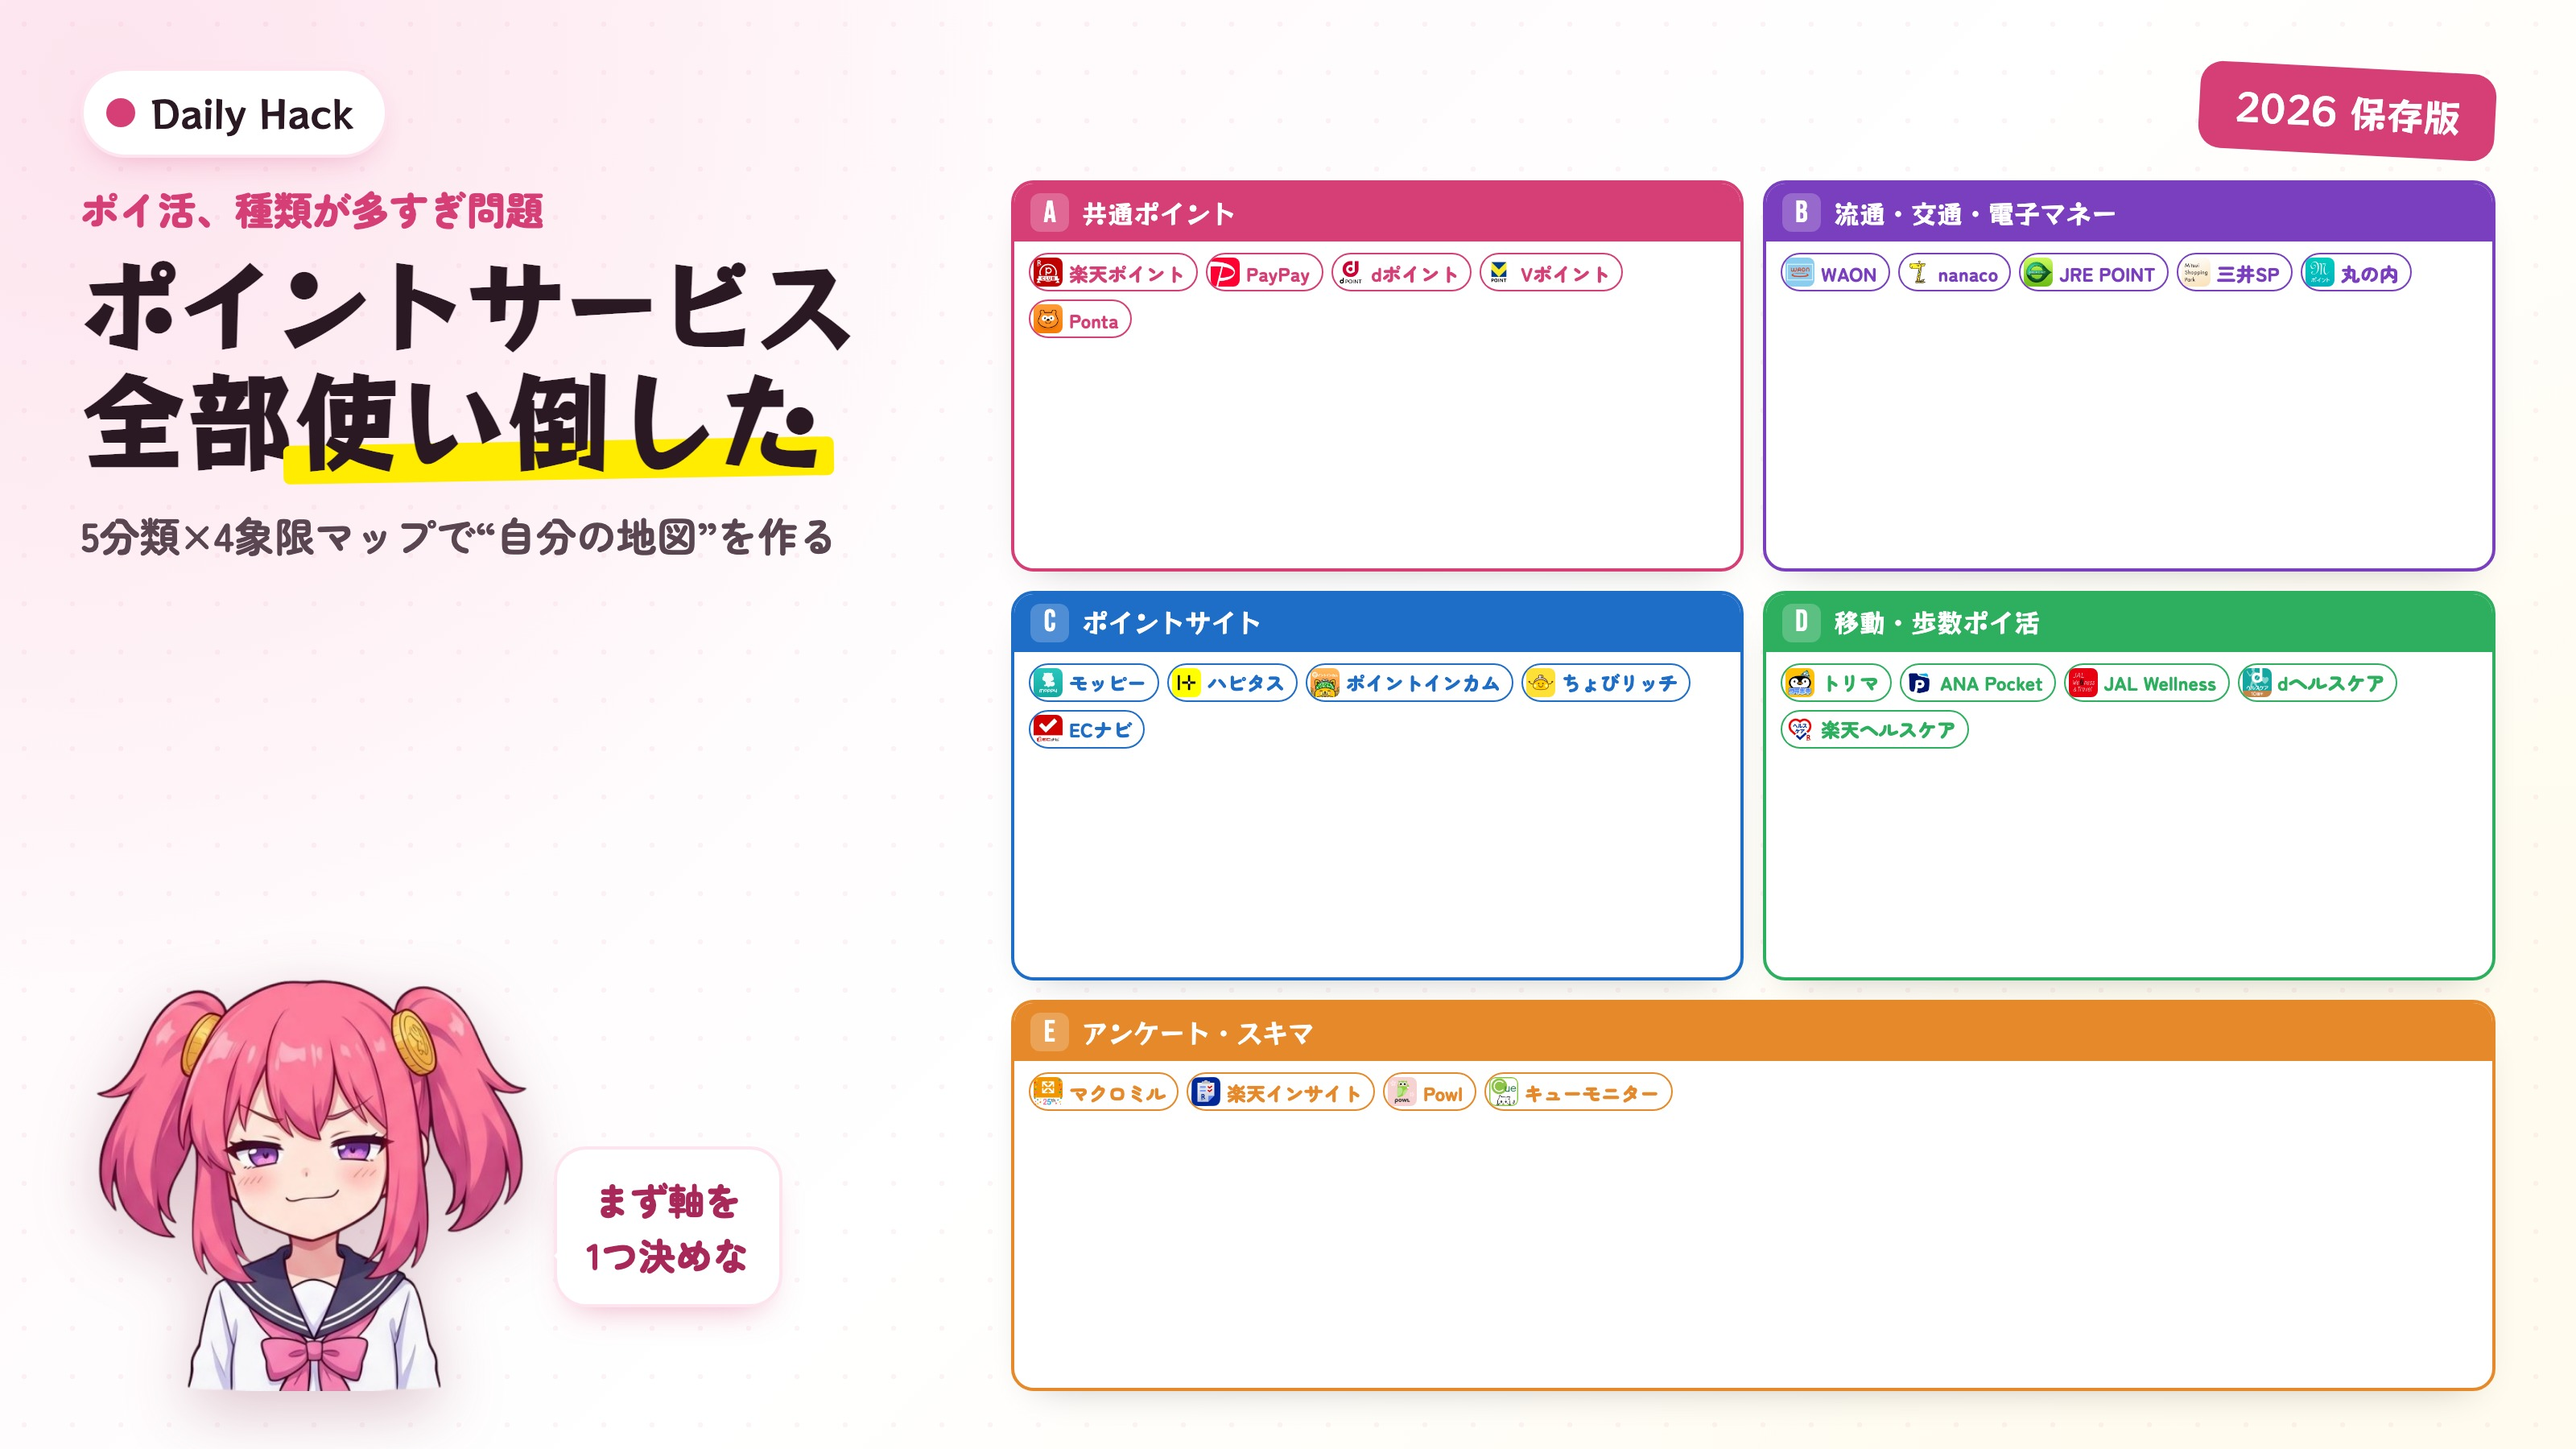
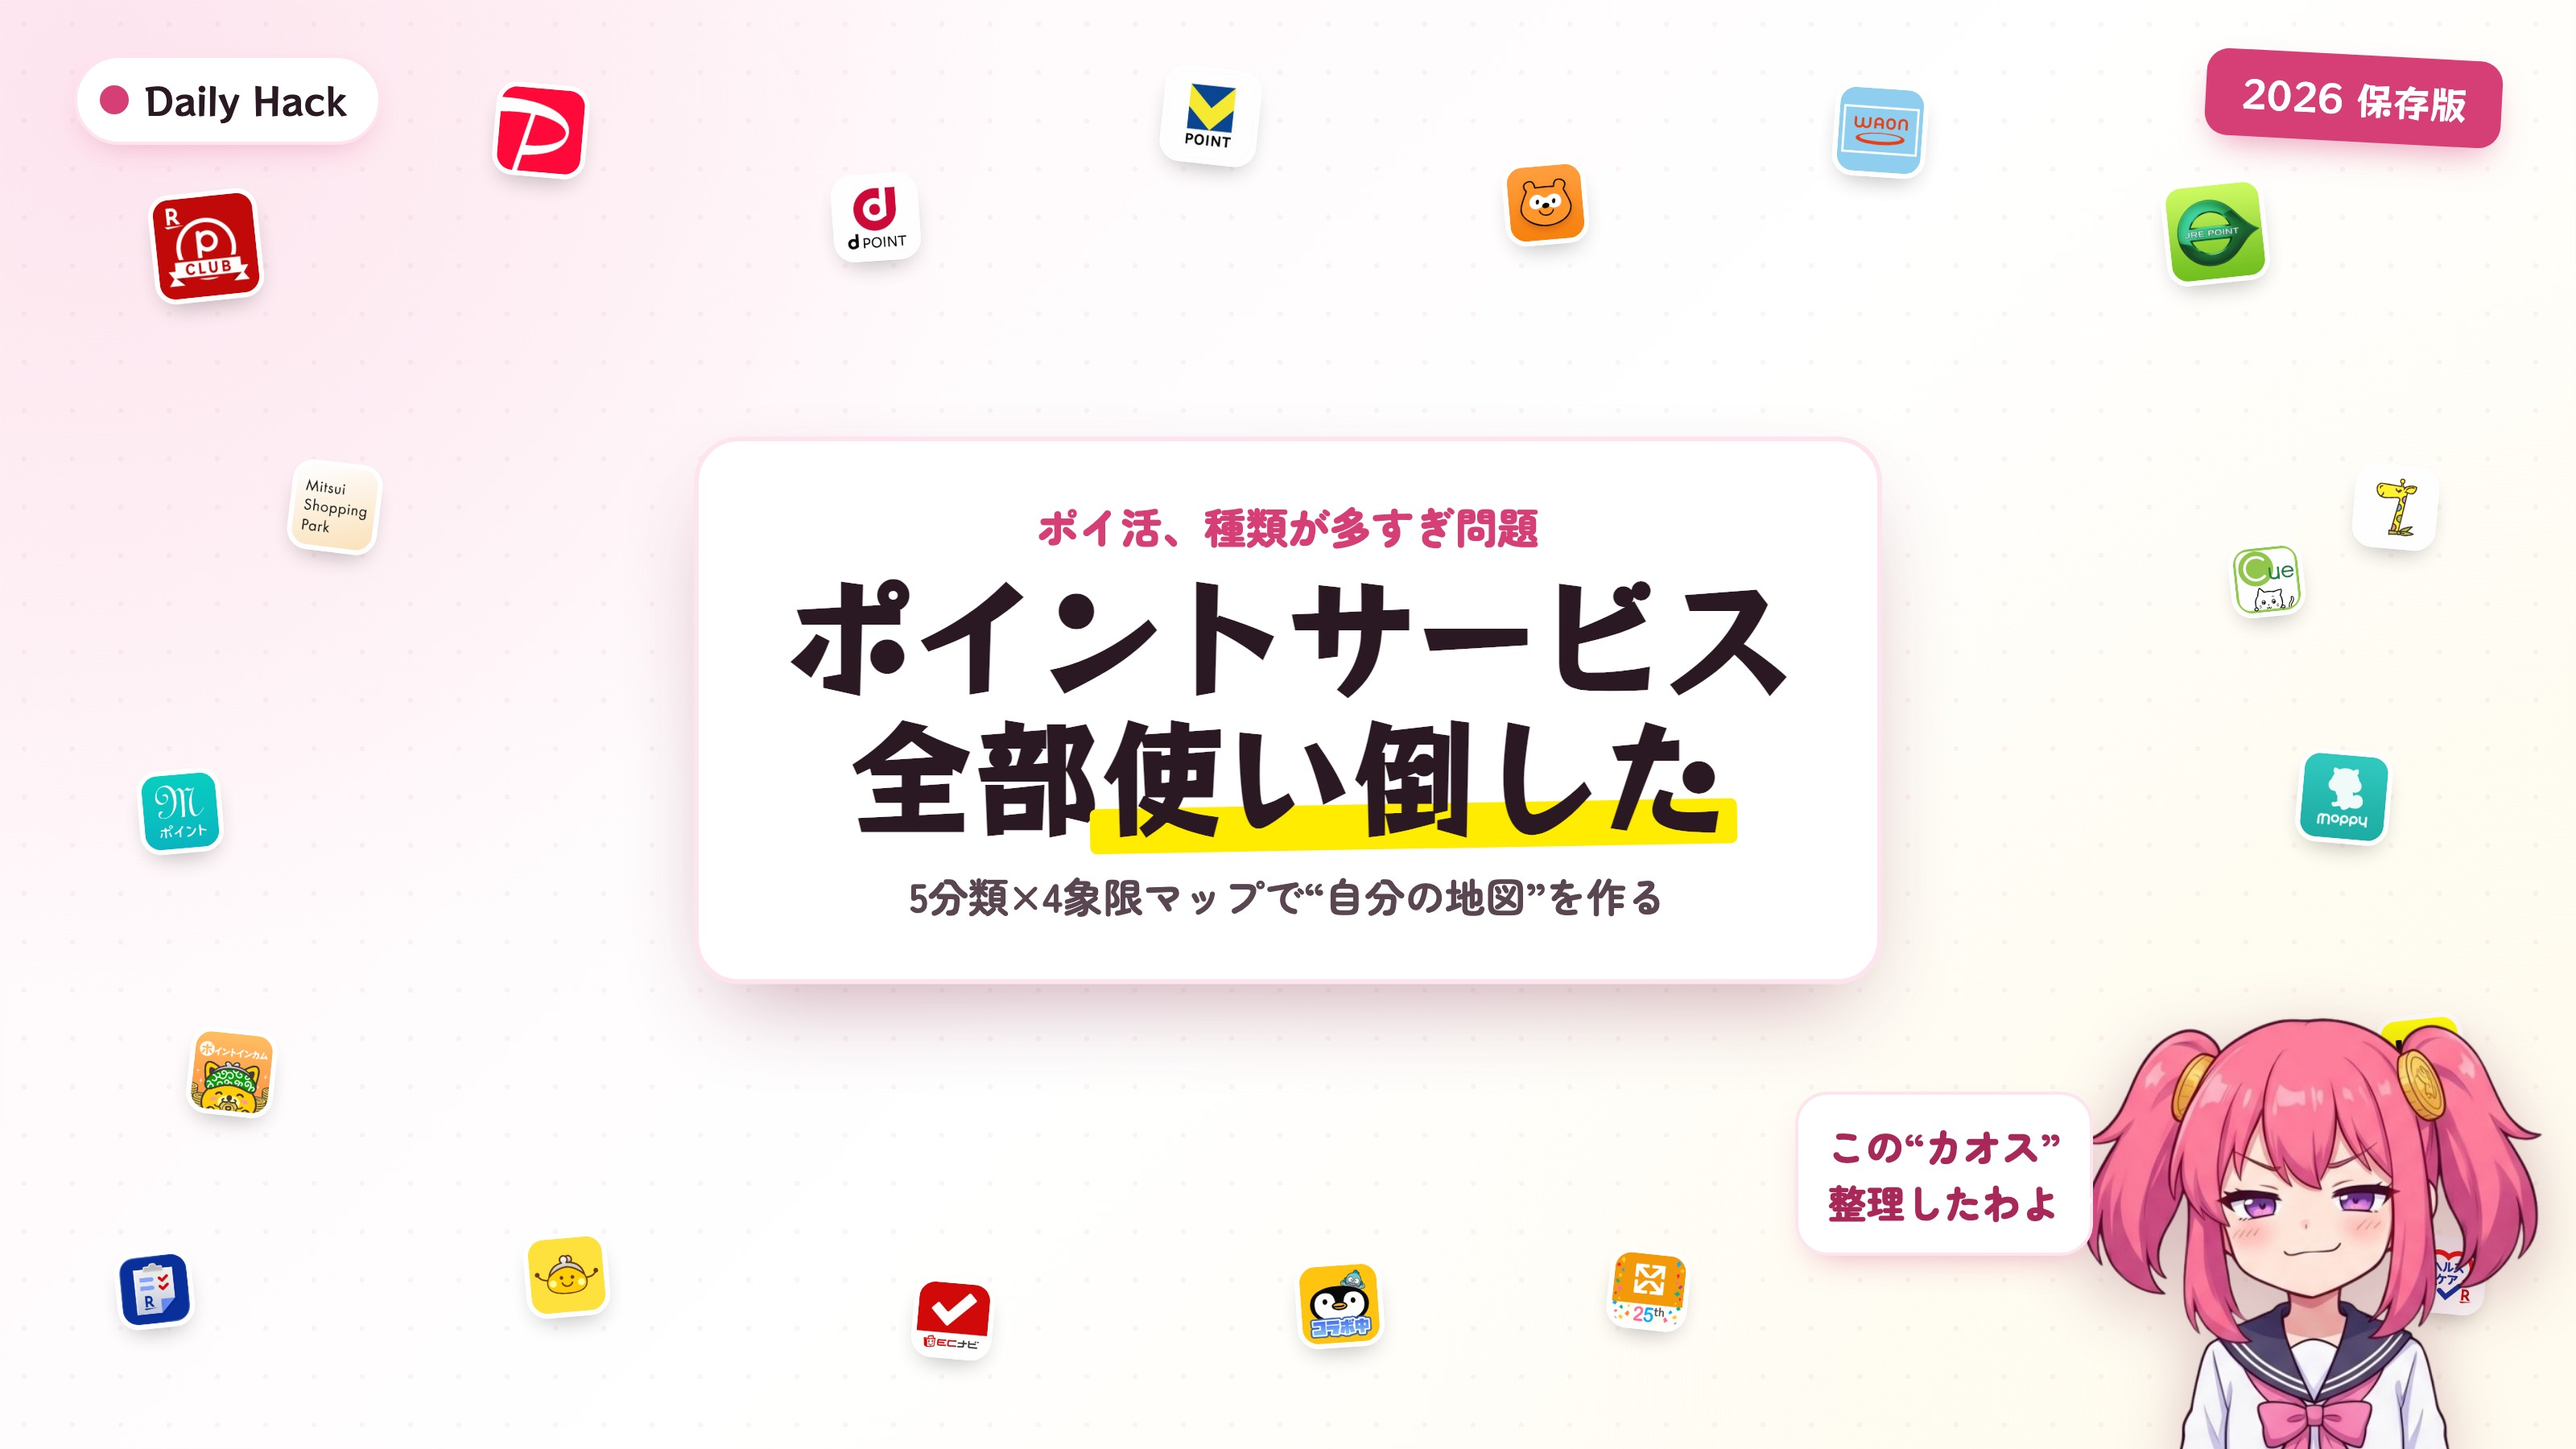
fix(C056): eyecatchをロゴ散りばめヒーロー型に刷新＋4象限をナレーション型に
- eyecatch: 左タイトル+右図の単調レイアウトを廃し、24サービスのロゴを散りばめた
  ヒーロー型へ（ロゴ大きく・余白解消・中央タイトルパネル・右下キャラ）＝バリエーション
- 4象限マップ: 中央キャラ(アイコン被り)を廃止し、各象限にキャラ＋吹き出しで
  解説するナレーション型に（A=土台/C=本気/B・D=ついで/E=スキマ）
- referrals.ts: pointsite紹介リンクの器を追加（モッピー/ハピタス/インカム/ちょび/
  ワラウ/ECナビ、code/affiliateUrl はJordan提供待ちでisActive:false）

diff --git a/src/data/referrals.ts b/src/data/referrals.ts
@@ -213,6 +213,13 @@ export const referrals: Referral[] = [
     expiresAt: '2026-06-23',
     isActive: true,
   },
+  // 🎯 ポイントサイト（紹介リンク＝Jordan提供待ち。code/affiliateUrl 記入後 isActive:true に）
+  { id:'moppy', serviceName:'モッピー', category:'pointsite', code:'', url:'https://pc.moppy.jp/', reward:'紹介者・被紹介者ともにボーナスpt（要確認）', description:'会員1,400万人超の最大手。基軸サイト', conditions:'紹介経由登録＋一定pt獲得', isActive:false },
+  { id:'hapitas', serviceName:'ハピタス', category:'pointsite', code:'', url:'https://hapitas.jp/register/', reward:'紹介ボーナス（要確認）', description:'高単価の金融案件に強い', conditions:'紹介経由登録＋条件達成', isActive:false },
+  { id:'pointincome', serviceName:'ポイントインカム', category:'pointsite', code:'', url:'https://pointi.jp/', reward:'紹介ボーナス（要確認）', description:'会員ランク＋交換ボーナス。セレス傘下', conditions:'紹介経由登録＋条件達成', isActive:false },
+  { id:'chobirich', serviceName:'ちょびリッチ', category:'pointsite', code:'', url:'https://www.chobirich.com/', reward:'紹介ボーナス（要確認）', description:'外食・商品モニターに強い', conditions:'紹介経由登録＋条件達成', isActive:false },
+  { id:'warau', serviceName:'ワラウ', category:'pointsite', code:'', url:'https://www.warau.jp/', reward:'紹介ボーナス（要確認）', description:'全カテゴリ対象ポイント保証。初心者向き', conditions:'紹介経由登録＋条件達成', isActive:false },
+  { id:'ecnavi', serviceName:'ECナビ', category:'pointsite', code:'', url:'https://ecnavi.jp/', reward:'紹介ボーナス（要確認）', description:'電通系の老舗。PeX交換ハブ', conditions:'紹介経由登録＋条件達成', isActive:false },
 ];
 
 export function getReferralById(id: string): Referral | undefined {
